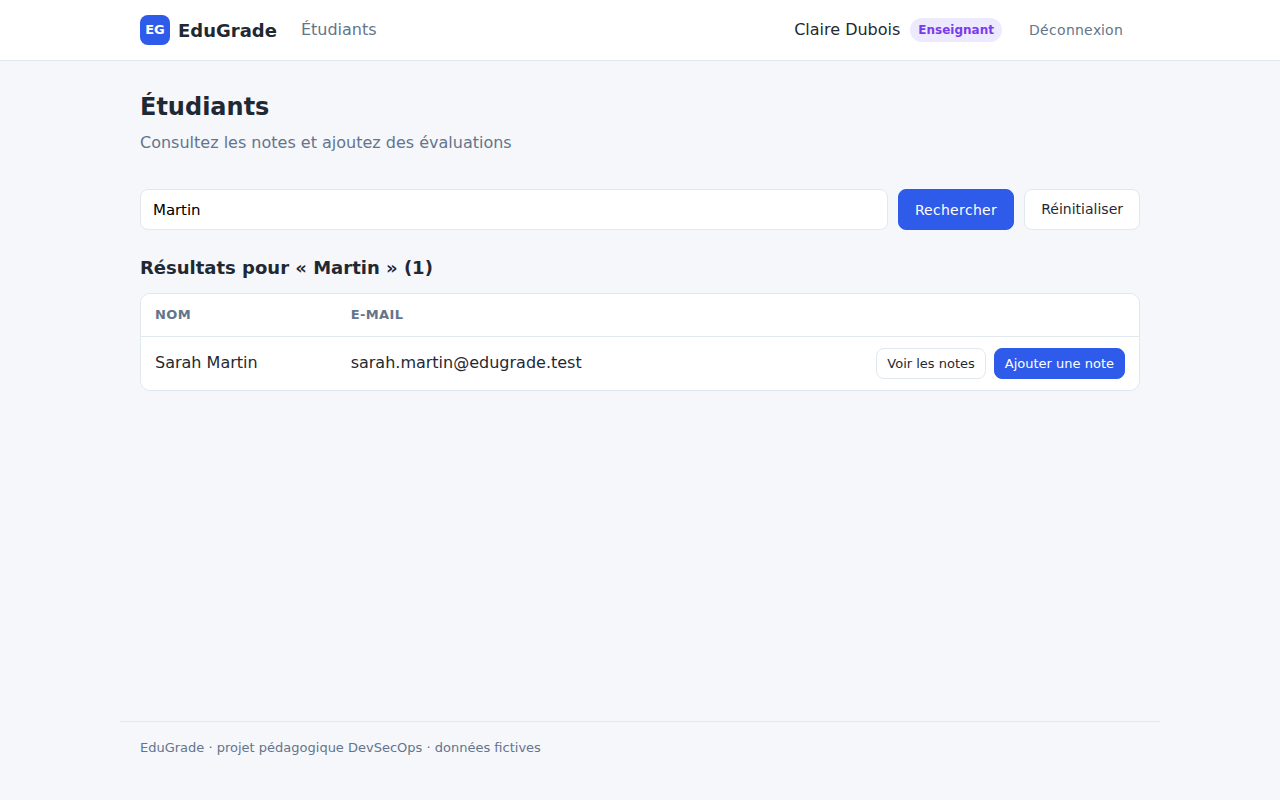
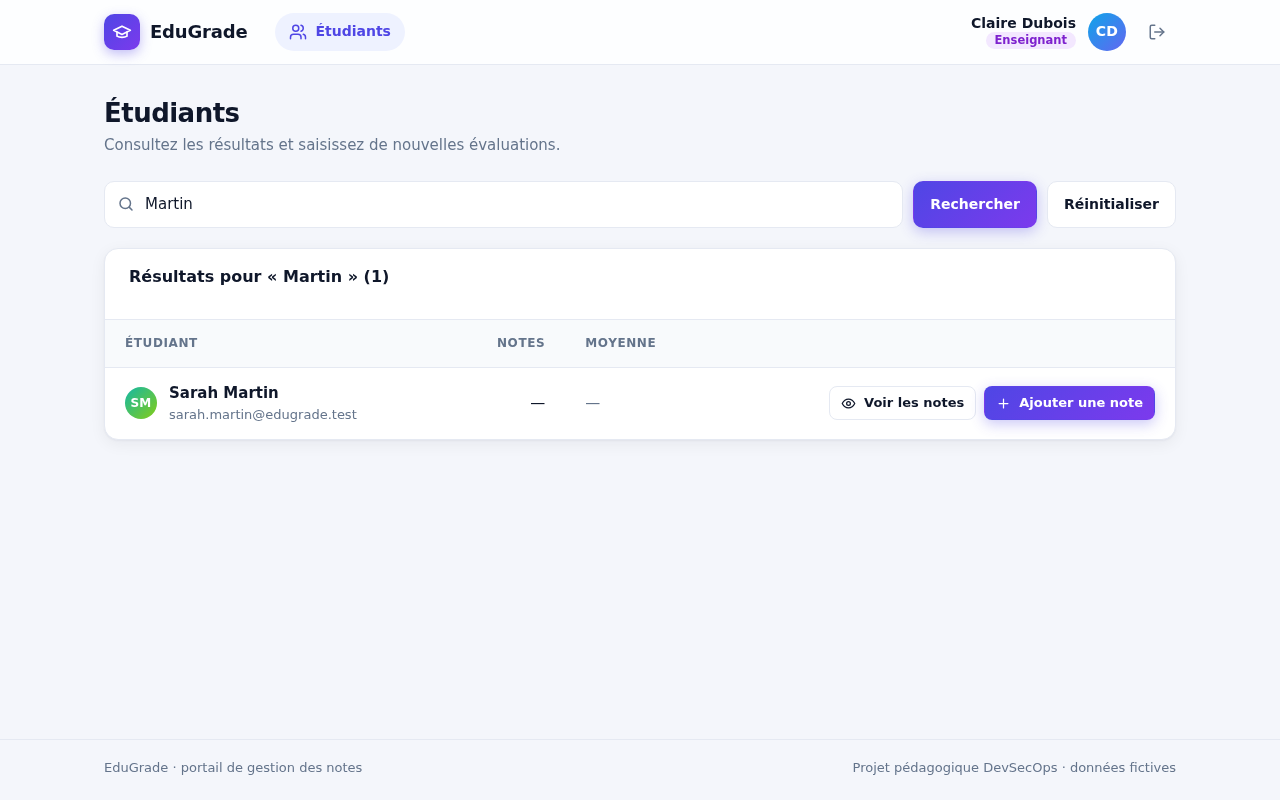
docs(preuves): régénère les captures de l'application avec la nouvelle interface

diff --git a/docs/VULNERABILITES.md b/docs/VULNERABILITES.md
@@ -12,12 +12,12 @@ ici ni dans les preuves (masquées `****MASQUÉ****`).
 
 | ID | Faille | Emplacement | OWASP Top 10 2021 | Détectée par | Preuve « avant » |
 |----|--------|-------------|-------------------|--------------|------------------|
-| V1 | IDOR sur les notes | `app/student.py:36-37` | A01 Broken Access Control | test pytest `tests/security/test_idor.py`, journaux | [26](preuves/captures/26-app-v1-idor-avant.png), [12](preuves/captures/12-pytest-securite-echec-attendu.png) |
+| V1 | IDOR sur les notes | `app/student.py:42-43` | A01 Broken Access Control | test pytest `tests/security/test_idor.py`, journaux | [26](preuves/captures/26-app-v1-idor-avant.png), [12](preuves/captures/12-pytest-securite-echec-attendu.png) |
 | V2 | Injection SQL (recherche) | `app/teacher.py:20-22` | A03 Injection | Semgrep, Bandit, ZAP, test pytest `tests/security/test_sqli.py` | [27](preuves/captures/27-app-v2-sqli-tautologie-avant.png), [28](preuves/captures/28-app-v2-sqli-union-avant.png), [09](preuves/captures/09-semgrep.png), [10](preuves/captures/10-bandit.png) |
 | V3 | Secrets écrits en dur | `app/config.py:22-24` | A07 Identification and Authentication Failures (CWE-798) | Gitleaks, Bandit | [07](preuves/captures/07-gitleaks-detect.png) |
 | V4 | Dépendance vulnérable (PyYAML 5.3.1) | `requirements.txt:5-6`, utilisée dans `app/config.py:14-17` | A06 Vulnerable and Outdated Components | Trivy fs, Trivy image | [08](preuves/captures/08-trivy-fs.png), [17](preuves/captures/17-trivy-image.png) |
 | Bonus 1 | En-têtes de sécurité absents | `docker/nginx.conf:4`, `app/__init__.py:65` | A05 Security Misconfiguration | ZAP baseline | [30](preuves/captures/30-app-b1-entetes-avant.png) |
-| Bonus 2 | XSS réfléchi | `app/templates/teacher/students.html:18-19` | A03 Injection (CWE-79) | Semgrep, ZAP | [29](preuves/captures/29-app-b2-xss-avant.png), [09](preuves/captures/09-semgrep.png) |
+| Bonus 2 | XSS réfléchi | `app/templates/teacher/students.html:44-45` | A03 Injection (CWE-79) | Semgrep, ZAP | [29](preuves/captures/29-app-b2-xss-avant.png), [09](preuves/captures/09-semgrep.png) |
 
 La faille V5 (mauvaise configuration IaC du cluster) relève de la Partie 2.
 
@@ -25,7 +25,7 @@ La faille V5 (mauvaise configuration IaC du cluster) relève de la Partie 2.
 
 ## V1 — IDOR (Insecure Direct Object Reference)
 
-- **Emplacement** : `app/student.py:36-37`, route `GET /grades/<student_id>`.
+- **Emplacement** : `app/student.py:42-43`, route `GET /grades/<student_id>`.
 - **Cause** : la route est protégée par `@login_required` uniquement. Elle ne vérifie
   pas que l'étudiant connecté est le propriétaire des notes demandées
   (`session["user_id"] == student_id`). L'identifiant est un entier séquentiel,
@@ -147,7 +147,7 @@ La faille V5 (mauvaise configuration IaC du cluster) relève de la Partie 2.
 
 ## Bonus 2 — XSS réfléchi dans la recherche
 
-- **Emplacement** : `app/templates/teacher/students.html:18-19`.
+- **Emplacement** : `app/templates/teacher/students.html:44-45`.
 - **Cause** : le terme recherché est réaffiché avec le filtre Jinja `|safe`, qui
   désactive l'échappement automatique.
 - **Impact** : un lien piégé (`/teacher/students?q=<script>…</script>`) envoyé à un
